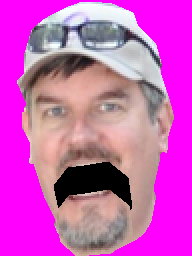
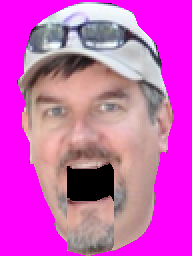
boss opens mouth to drop bombs

diff --git a/Character.py b/Character.py
@@ -225,7 +225,6 @@ class Character(pygame.sprite.Sprite):
                 self.startTicksBomb = pygame.time.get_ticks()
             return newBomb
         else:
-            print("test")
             return None
 
 
@@ -343,6 +342,7 @@ class Enemy(Character):
         facing = const.DOWN
         version = const.BASIC       #placeholder, maybe load enemy types from a list based on level #
         super().__init__(x, y, facing, 0, const.ENEMY)
+        self.yres += 10
         self.direction = random.choice([const.UP, const.DOWN, const.LEFT, const.RIGHT])
         version = random.choice([const.BASIC, const.RANDOM, const.ADVANCED])
         self.pursuePlayer = False
@@ -418,6 +418,11 @@ class Boss(Character):
         seconds = self.countdownDropBomb()#calculate how many seconds
         if seconds > self.timerBomb:
             self.readyDropBomb = True
+
+        if self.readyDropBomb:
+            self.image = self.imageMouth
+        else:
+            self.image = self.imageNormal
     
    #def countdown(self):
    #     return (pygame.time.get_ticks() - self.start_ticks) / const.SECOND
